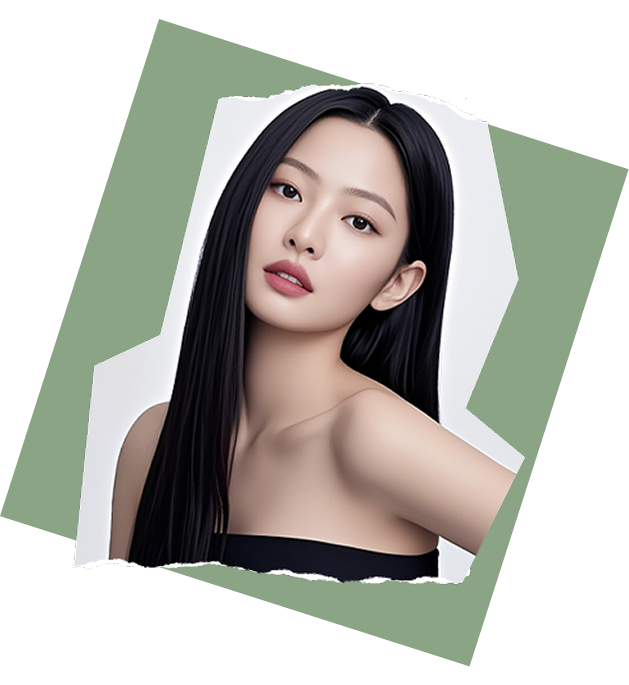
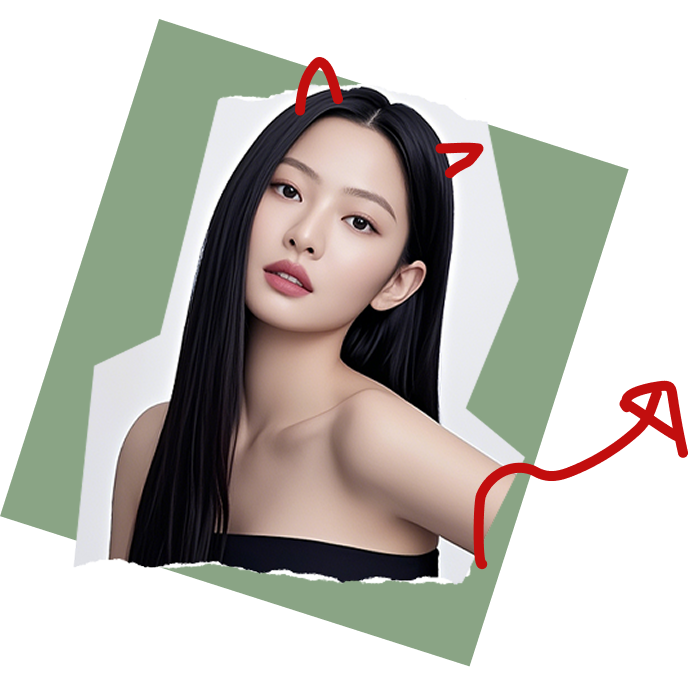
프로필, 컨택 배경화면 수정 완료

diff --git a/portfolio/main/css/main_style.css b/portfolio/main/css/main_style.css
@@ -27,7 +27,7 @@ main_visual
 ============================= */
 
 .main_visual {
-  height: 1100px;
+  height: 1000px;
   background-color: #F2E4CB;
   position: relative;
 }
@@ -36,7 +36,7 @@ main_visual
   position: absolute;
   font-size: 350px;
   left: 50%;
-  bottom: 190px;
+  bottom: 100px;
   margin-left: -470px;
   color: var(--fontcolor);
 }
@@ -45,14 +45,14 @@ main_visual
   position: absolute;
   font-size: 130px;
   left: 50%;
-  bottom: 160px;
+  bottom: 80px;
   margin-left: -269px;
   color: var(--fontcolor2);
 }
 .main_visual .face_img {
   position: absolute;
   left: 38%;
-  bottom: 30%;
+  bottom: 25%;
 }
 
 .main_visual nav {
@@ -177,13 +177,13 @@ main_visual
 Profile Section Layout 
 ============================= */
 .profile {
-  /* height: 2100px; */
-  background-image: url(../img/bg2.png);
-  background-size: 2200px 2000px;;
+  height: 2000px;
+  background-image: url(../img/bg1.png);
+  background-size: 100% 100%;
 }
 
 .profile .inner {
-  height: 1900px;
+  height: 1800px;
   display: flex;
   flex-direction: column;
   align-items: center;
@@ -346,12 +346,13 @@ Profile Section Layout
    PROJECT SECTION LAYOUT
 ============================= */
 .project {
-  height: 3600px;
+  height: 3300px;
   background: linear-gradient(#F2E4CB,#E8E5E0 50%,#F2E4CB);
 }
 
 .project .inner {
-  height: 3400px;
+  padding-top: 100px;
+  height: 3200px;
   display: flex;
   flex-direction: column;
   align-items: center;
@@ -397,20 +398,20 @@ Profile Section Layout
 
 .project .inner .con ul li:nth-child(3) {
   position: absolute;
-  top: 800px;
+  top: 950px;
   left: 50px;
 }
 
 .project .inner .con ul li:nth-child(3) img:nth-of-type(2) {
   position: absolute;
   left: 400px;
-  top: -100px;
+  top: -200px;
 }
 
 .project .inner .con ul li:nth-child(4) {
   position: absolute;
-  left: 900px;
-  top: 1300px;
+  left: 1000px;
+  top: 1400px;
 }
 
 .project .inner .con ul li:nth-child(4) img:nth-of-type(2) {
@@ -422,7 +423,7 @@ Profile Section Layout
 .project .inner .con ul li:nth-child(5) {
   position: absolute;
   left: 100px;
-  top: 1700px;
+  top: 1850px;
 }
 
 /* TEXT SPAN POSITIONING */
@@ -597,7 +598,7 @@ contact - Section Layout
 
 .contact {
   height: 1850px;
-  background-image: url(../img/bg3.png);
+  background-image: url(../img/bg1.png);
   background-size: 1730px 1900px;
   overflow: hidden;
 }
